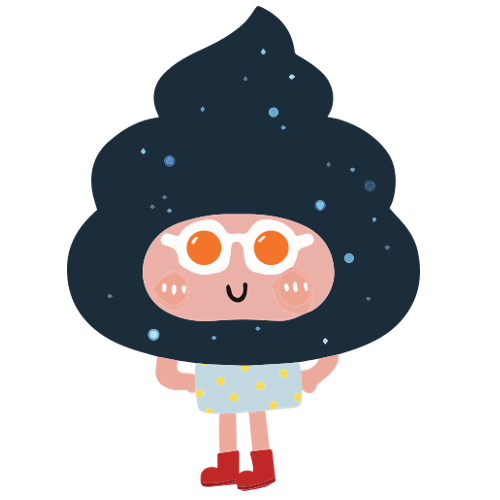
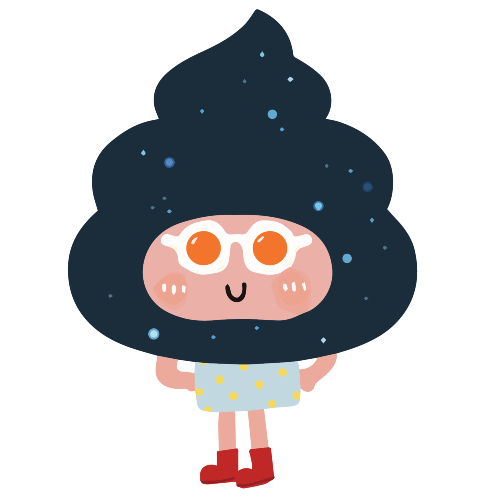
update 888 asset #2

diff --git a/docs/index.html b/docs/index.html
@@ -19,13 +19,13 @@
     <meta property="og:description" content="Earn $BLOBZ every 60 seconds!" />
     <meta property="og:type" content="website" />
     <meta property="og:url" content="https://poopzter.app" />
-    <meta property="og:image" content="https://poopzter.app/888/asset.png" />
+    <meta property="og:image" content="https://poopzter.app/888/asset.png?r=240908" />
     <meta name="twitter:card" content="summary_large_image">
     <meta name="twitter:site" content="@poopzter">
     <meta name="twitter:title" content="POOPZTER shit-to-earn">
     <meta name="twitter:description" content="Earn $BLOBZ every 60 seconds!">
     <meta name="twitter:creator" content="@poopzter">
-    <meta name="twitter:image:src" content="https://poopzter.app/888/asset.png">
+    <meta name="twitter:image:src" content="https://poopzter.app/888/asset.png?r=240908">
     <meta name="twitter:domain" content="poopzter.app">
     <!-- app -->
     <link href="https://cdn.jsdelivr.net/npm/bootstrap@5.3.0/dist/css/bootstrap.min.css" rel="stylesheet" integrity="sha384-9ndCyUaIbzAi2FUVXJi0CjmCapSmO7SnpJef0486qhLnuZ2cdeRhO02iuK6FUUVM" crossorigin="anonymous">
